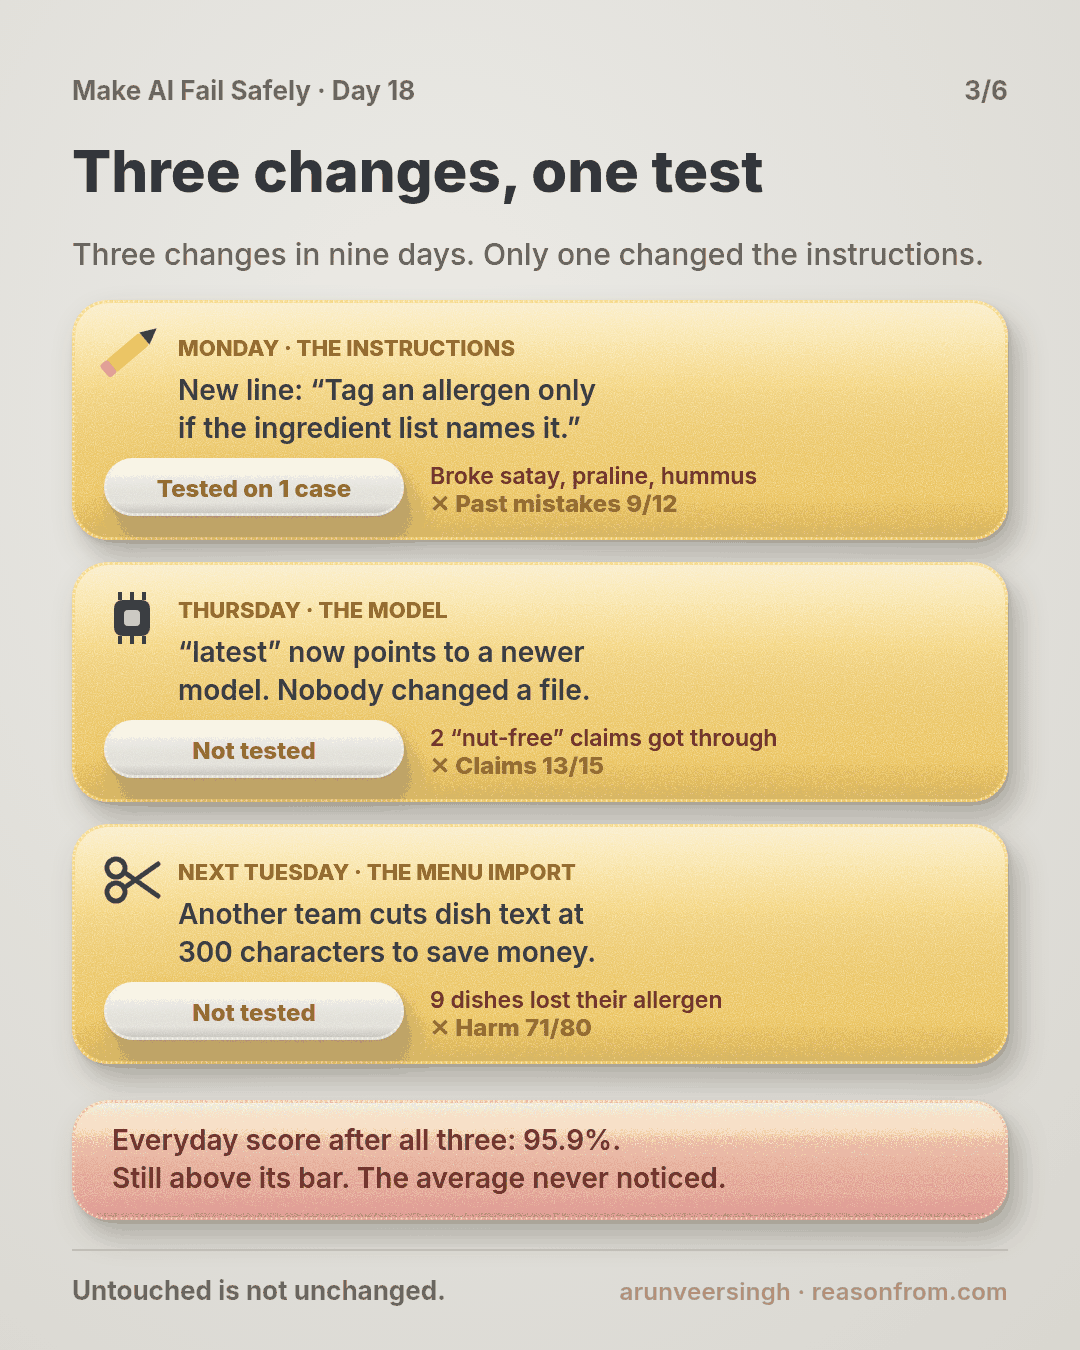
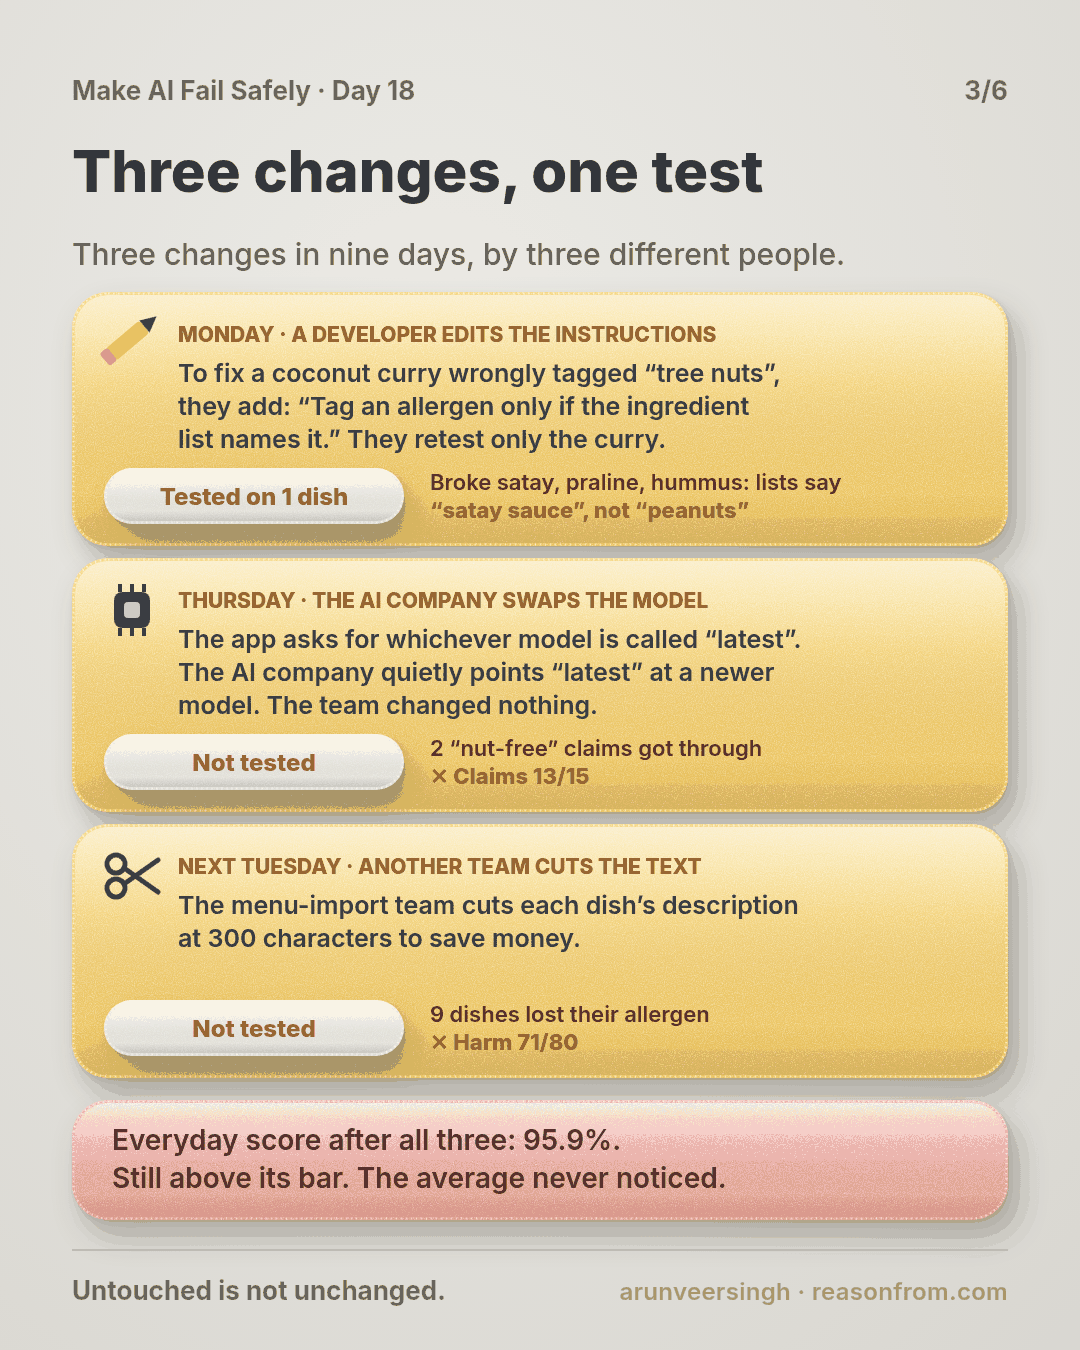
Day 18: say who made each change and why on slide 3 and the diagram

Changed region(s): [[0.0611, 0.1556, 0.9472, 0.9022], [0.9167, 0.56, 0.9472, 0.5911]]

diff --git a/courses/make-ai-fail-safely/day-18.md b/courses/make-ai-fail-safely/day-18.md
@@ -187,6 +187,6 @@ Stuck on one? Re-read **What you'll learn**, **The story** and **Ask first** onc
 ## Day 18 in 6 slides (optional)
 
 <table>
-<tr><td><a href="./assets/day-18/slide-1.png"><img src="./assets/day-18/slide-1.png" width="240" alt="1/6: Three changes, one test. You're allergic to sesame and tick it in a food delivery app's allergy filter; an AI tags every dish. A shawarma wrap's ingredient list is cut off before &quot;tahini (sesame)&quot;, the AI tags no sesame, and a customer allergic to sesame ends up in the emergency room."></a></td><td><a href="./assets/day-18/slide-2.png"><img src="./assets/day-18/slide-2.png" width="240" alt="2/6: A tagger with good tests: the app gives the AI written instructions, called the prompt; dish in, allergen tags out. 1,307 cases: everyday dishes 96.1% (bar 95%), harm 80/80, past mistakes 12/12, &quot;100% nut-free kitchen&quot; claims 15/15. But the cases ran only when someone edited the instructions."></a></td><td><a href="./assets/day-18/slide-3.png"><img src="./assets/day-18/slide-3.png" width="240" alt="3/6: Three changes in nine days, only one to the instructions. Monday's new instruction line was tested on 1 case and broke satay, praline and hummus (past mistakes 9/12). Thursday's &quot;latest&quot; model move wasn't tested (nut-free claims 13/15). Tuesday's 300-character import cut wasn't tested (harm 71/80). Everyday stays at 95.9%, above its bar."></a></td></tr>
+<tr><td><a href="./assets/day-18/slide-1.png"><img src="./assets/day-18/slide-1.png" width="240" alt="1/6: Three changes, one test. You're allergic to sesame and tick it in a food delivery app's allergy filter; an AI tags every dish. A shawarma wrap's ingredient list is cut off before &quot;tahini (sesame)&quot;, the AI tags no sesame, and a customer allergic to sesame ends up in the emergency room."></a></td><td><a href="./assets/day-18/slide-2.png"><img src="./assets/day-18/slide-2.png" width="240" alt="2/6: A tagger with good tests: the app gives the AI written instructions, called the prompt; dish in, allergen tags out. 1,307 cases: everyday dishes 96.1% (bar 95%), harm 80/80, past mistakes 12/12, &quot;100% nut-free kitchen&quot; claims 15/15. But the cases ran only when someone edited the instructions."></a></td><td><a href="./assets/day-18/slide-3.png"><img src="./assets/day-18/slide-3.png" width="240" alt="3/6: Three changes in nine days, by three different people. Monday: to fix a coconut curry wrongly tagged &quot;tree nuts&quot;, a developer adds &quot;Tag an allergen only if the ingredient list names it&quot; and retests only the curry; it breaks satay, praline and hummus, whose lists say &quot;satay sauce&quot;, not &quot;peanuts&quot;. Thursday: the app asks for whichever model is called &quot;latest&quot; and the AI company quietly points it at a newer model; not tested (nut-free claims 13/15). Next Tuesday: the menu-import team cuts each description at 300 characters to save money; not tested (harm 71/80). Everyday stays at 95.9%, above its bar."></a></td></tr>
 <tr><td><a href="./assets/day-18/slide-4.png"><img src="./assets/day-18/slide-4.png" width="240" alt="4/6: The fix: one command runs all 1,307 cases on every change and fails the build; a list of everything the AI reads, where only a setup that passed can go live; the model locked to a dated version instead of &quot;latest&quot;; results that show which cases broke. Run against the same three changes, each one is blocked the first time; after the fix: 96.7%, 80/80, 12/12, 15/15."></a></td><td><a href="./assets/day-18/slide-5.png"><img src="./assets/day-18/slide-5.png" width="240" alt="5/6: Where it fits: the spec lists what each AI step reads; the plan's first task is one command that runs every case; an automatic check runs every case on any change to that list, even in another team's repo; only a setup that passed goes live."></a></td><td><a href="./assets/day-18/slide-6.png"><img src="./assets/day-18/slide-6.png" width="240" alt="6/6: Rule: untouched is not unchanged. If anything the step reads changed, every case runs again. A bakery bakes a test batch when the flour supplier changes, though nobody touched the recipe. Running every case is your test batch."></a></td></tr>
 </table>
